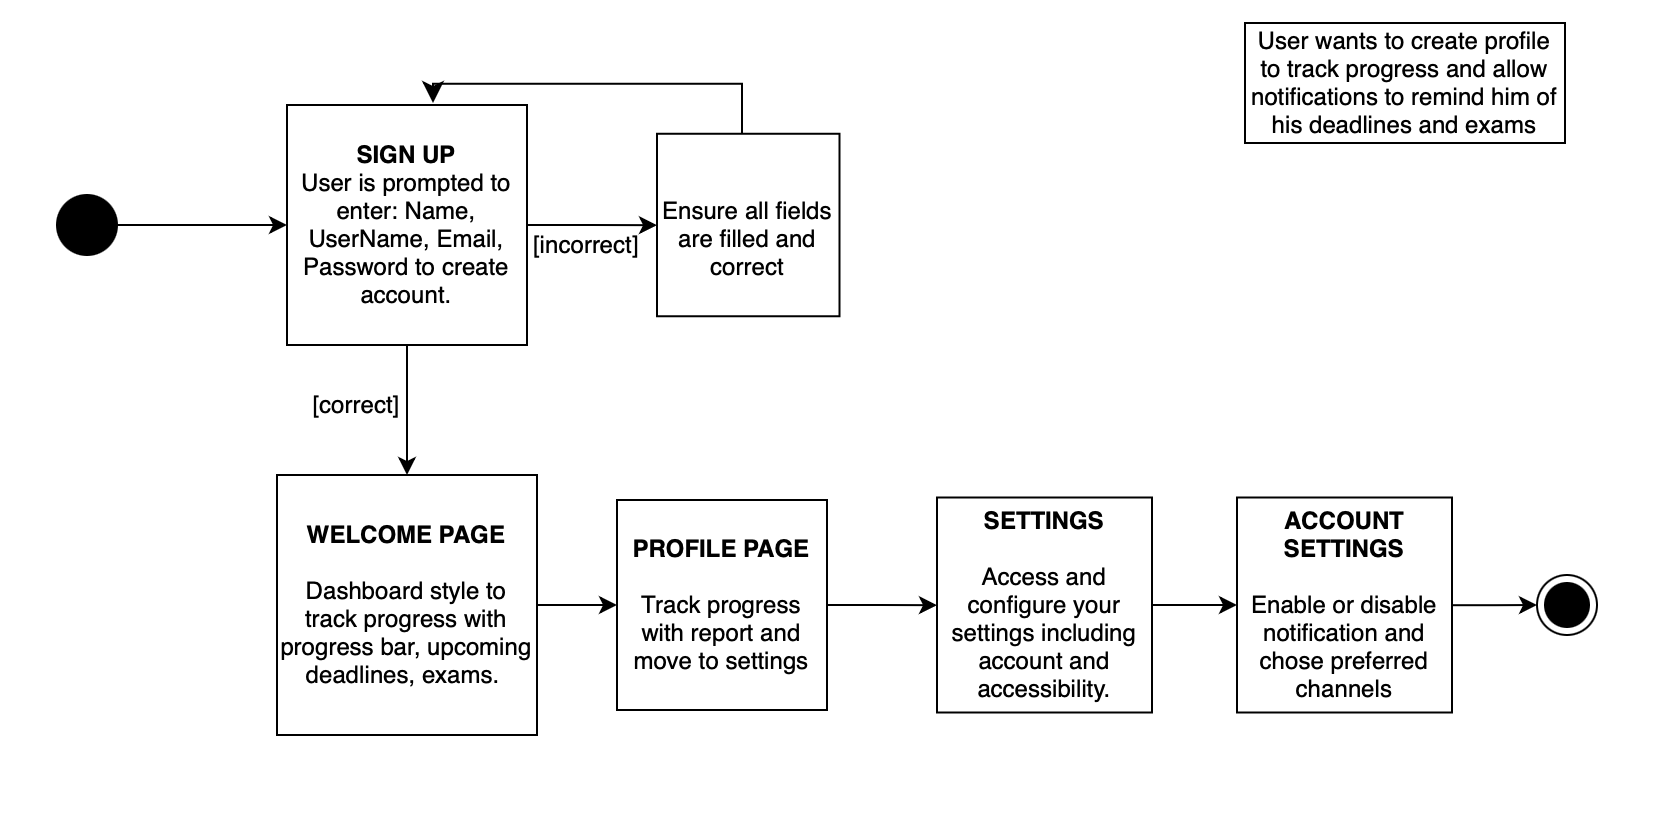
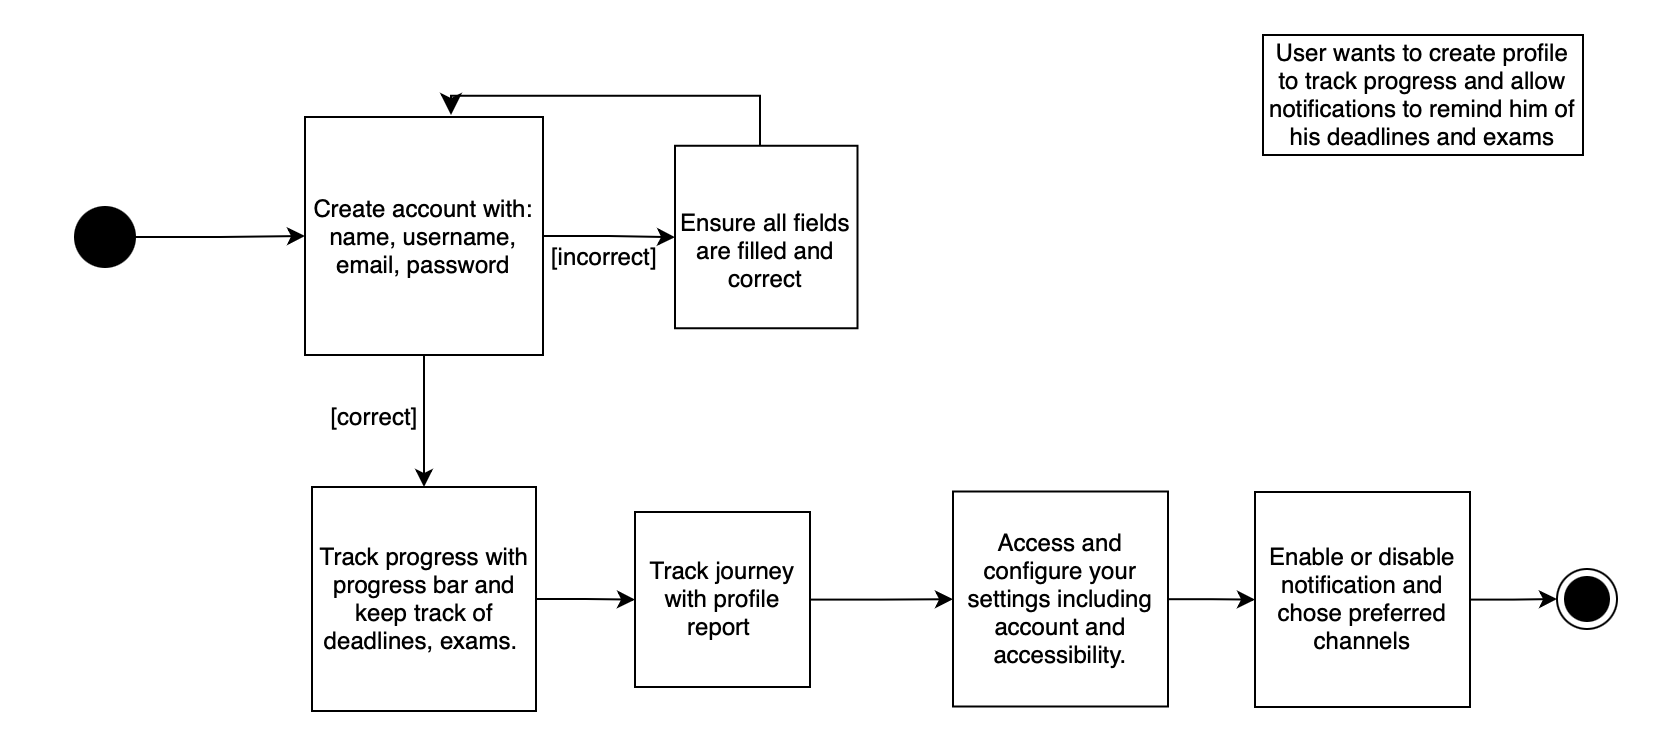
new user_story1 image in UML folder

diff --git a/README.md b/README.md
@@ -47,7 +47,7 @@ For students, employees, and others who are looking to transform into a better, 
 ## Activity Diagrams
 
 1. As a new student, I want to sign up on a platform that i can track my progress and recieve reminders of my upcoming deadlines and exams.
-    ![UML for User Story 10](https://github.com/software-students-spring2025/1-specification-exercise-bytecraft/blob/main/UML/user_story1.png)
+    <!-- ![UML for User Story 10]() -->
 
 10. As a student, I want to create, edit, and delete tasks with details like title, description, due date, and priority level so that I can efficiently manage my workload and stay organized.
     ![UML for User Story 10](https://github.com/software-students-spring2025/1-specification-exercise-bytecraft/blob/main/UML/usr_story10.png)
